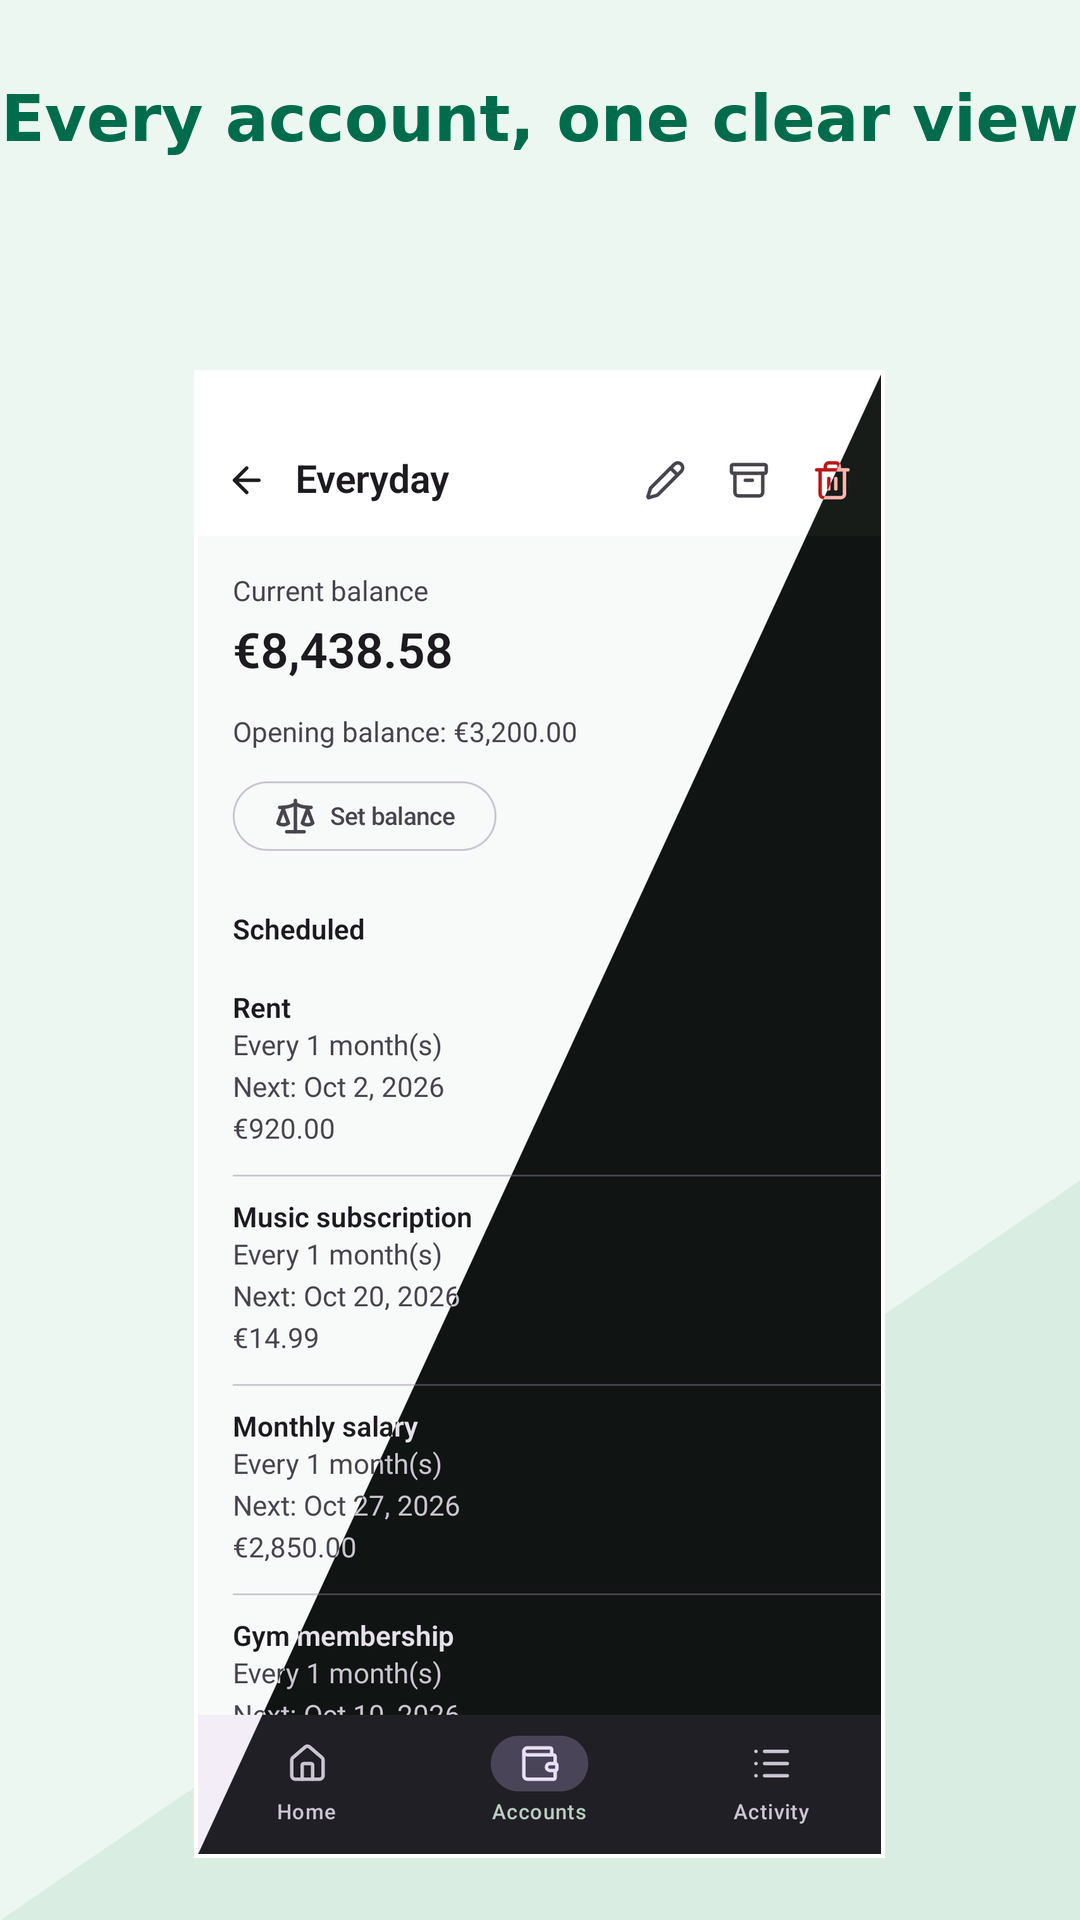
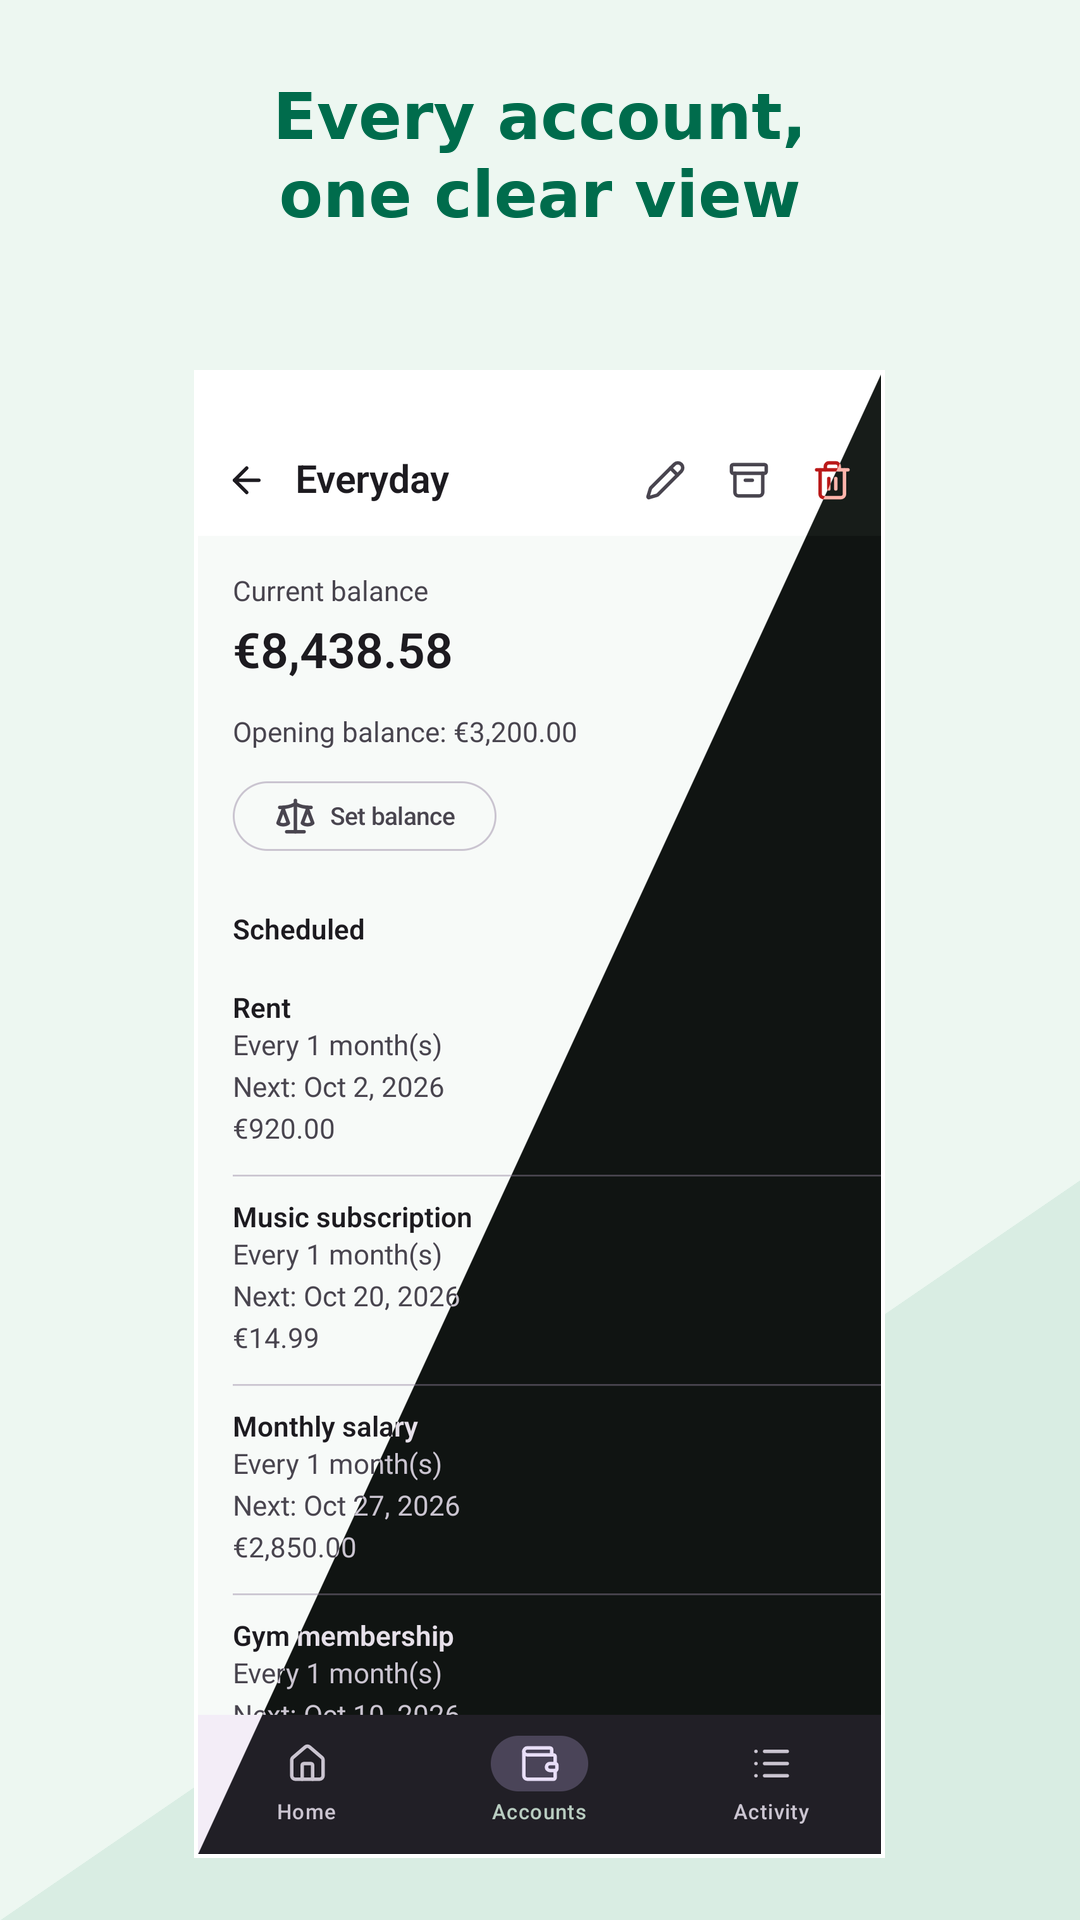
Regenerate marketing assets

Changed region(s): [[0.2139, 0.0312, 0.825, 0.125], [0.0, 0.0312, 0.1833, 0.0938], [0.8556, 0.0312, 1.0, 0.0938]]

diff --git a/docs/releasing.md b/docs/releasing.md
@@ -37,7 +37,7 @@ tested locally with `-PreleaseVersionCode=...` and
 ## Store listing assets
 
 F-Droid and Gradle Play Publisher read the localized listing from
-`app/src/main/play`. Before tagging a release, update the English and Italian
+`app/src/main/play`. Before tagging a release, update the EN/ES/IT
 `default.txt` release notes there. When the interface has changed, connect
 exactly one physical Android device and regenerate the screenshots with:
 
